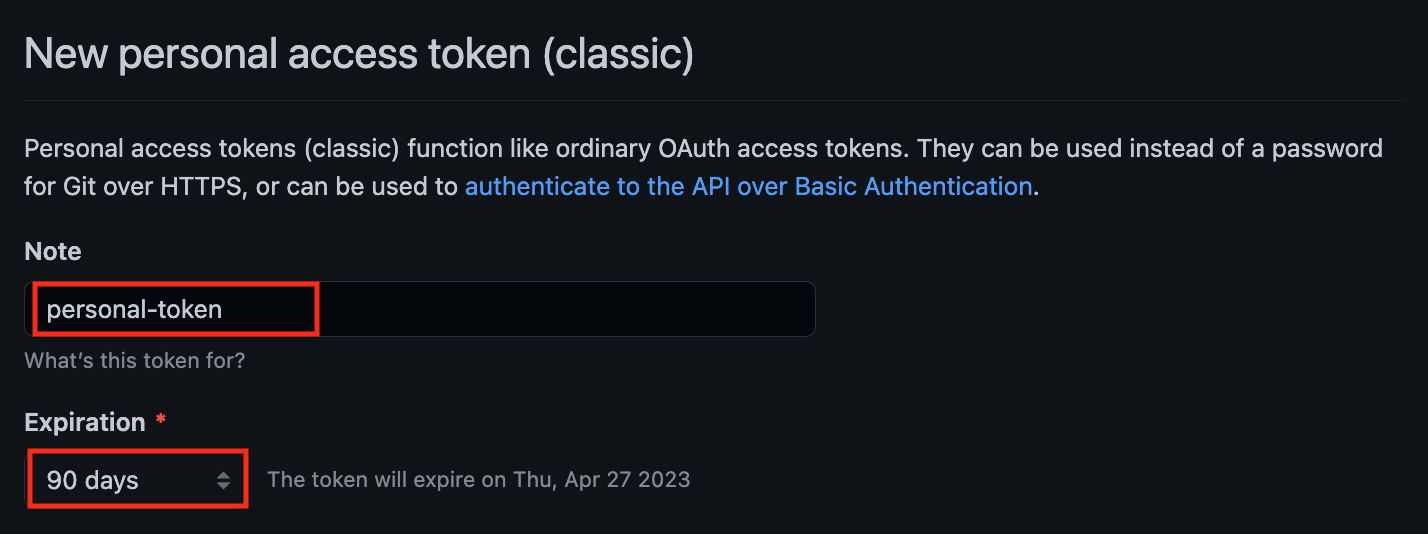
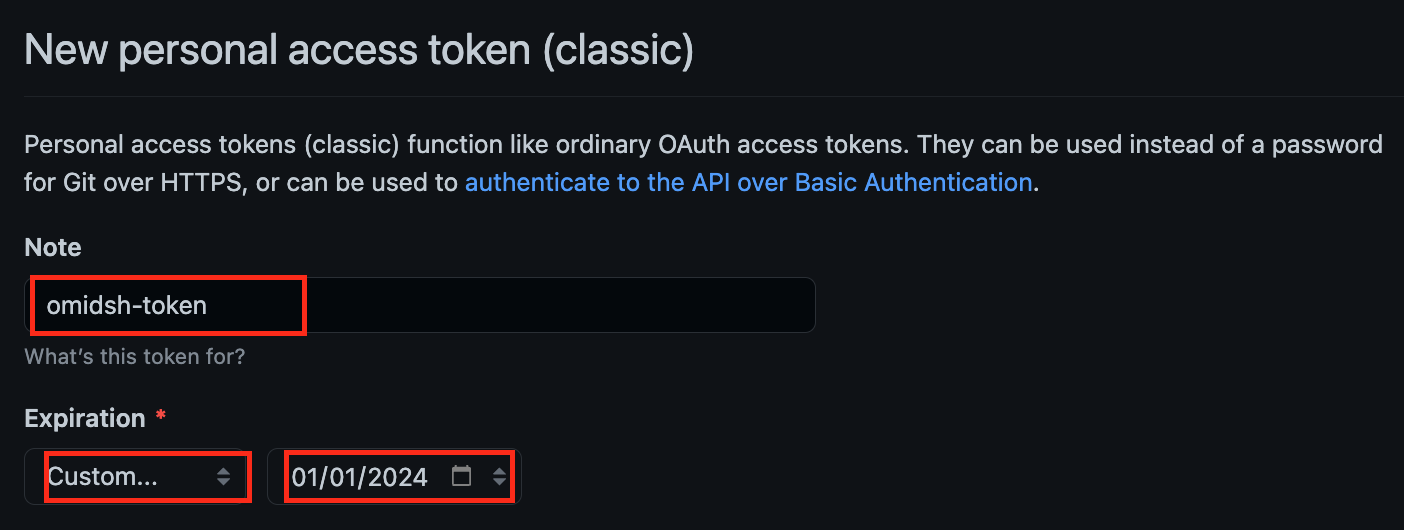
Write rough draft for token tutorial

diff --git a/docs/setup_git.md b/docs/setup_git.md
@@ -221,15 +221,63 @@ You now have a project page for your remote repo.  In this example, japplefield'
 
 <img src="images/github005b.png" width="768px" />
 
-#### Connect local repo to remote repo
-{: .primer-spec-toc-ignore }
-Browse to your repository's project page from [https://github.com/](https://github.com//). Copy the URL for your repo ending with `.git` by clicking on the copy icon.
+#### Create a GitHub Personal Access Token
+Before you continue with using your repositories in GitHub, you want to create your authentication method for accessing remote repo. GitHub personal access token (PAT) is a secure, user-friendly way to connect to GitHub. It gives you unique credentials to verify your identity.
 
-<img src="images/github006.png" width="768px" />
+Click on your profile, and head over to Settings.
+
+<img src="images/github_settings.png" width="768px" />
+
+Scroll down and select Developer settings from the left-hand side menu bar.
+
+<img src="images/github_developer_settings.png" width="768px" />
+
+Click on the drop down arrow to reveal the options. Select Tokens (classic). 
+
+<img src="images/github_tokens.png" width="768px" />
+
+Click on Generate new token and from the drop down menu, click on Generate new token (classic).
+
+<img src="images/github_generate_token.png" width="768px" />
+
+Now you should be able to view a page similar to the one below titled New personal access token (classic). If you do not see this page, go back to the previous page and make sure to select Generate new token (classic).
+
+Write a meaningful name for your token (such as &lt;uniqname&gt;-token). From the Expiration drop down menu select Custom. Set the expiration date to January 1st of next year (in `mm/dd/yy` format).
+
+<img src="images/github_token_view.png" width="768px" />
 
 <div class="primer-spec-callout info icon-info" markdown="1">
-**Pro-tip:** If you want avoid typing a username and password all the time, you can use SSH keys and an SSH URL (instead of HTTPS).  Check out the [GitHub tutorial on SSH keys](https://help.github.com/articles/connecting-to-github-with-ssh/).  Don't forget to [add your key to GitHub](https://github.com/settings/keys).
+**Note**: You have to renew your token after January 1st of next year by repeating this process. Setting your token expiration date to no expiration is a security risk. After expiration, to access remote repos previously accessed using your expired access token, you have to use the HTTPS link for the repo and [update the remote repo url](https://docs.github.com/en/enterprise-server@3.4/get-started/getting-started-with-git/managing-remote-repositories#changing-a-remote-repositorys-url). 
 </div>
+
+From the list below, select the boxes for `repo`, `admin:repo_hook`, and `delete_repo`.
+
+<img src="images/github_scopes.png" width="768px" />
+
+Now generate your token.
+
+<img src="images/github_gen_token.png" width="768px" />
+
+Copy your token. **Make sure to copy it now. You won’t be able to see it again!**
+
+<img src="images/github_copy_token.png" width="768px" />
+
+For now, store your token on your computer in a text file. Do not share this token with anyone!
+
+Open your terminal and enter the following command. Now, you only have to enter your access token the first time you are prompted for your password. From then on, GitHub won't prompt you to enter a password again.
+
+```console
+$ git config --global credential.helper store
+```
+
+<div class="primer-spec-callout info icon-info" markdown="1">
+**Alternative method:** If you want avoid re-generating tokens every 90 days, you can use SSH keys and an SSH URL (instead of HTTPS).  Check out the [GitHub tutorial on SSH keys](https://help.github.com/articles/connecting-to-github-with-ssh/). Don't forget to [add your key to GitHub](https://github.com/settings/keys) and [switch the remote from SSH to HTTPS.](https://docs.github.com/en/enterprise-server@3.4/get-started/getting-started-with-git/managing-remote-repositories#switching-remote-urls-from-ssh-to-https).
+</div>
+
+#### Connect local repo to remote repo
+Browse to your repository's project page from [https://github.com/](https://github.com//). Copy the URL for your repo from the `HTTPS` tab by clicking on the copy icon. The link starts with `https://` .
+
+<img src="images/github006.png" width="768px" />
 
 Connect your local repo to your remote repo.
 ```console
@@ -245,7 +293,8 @@ origin	https://github.com/japplefield/p1-insta485-static.git (fetch)
 origin	https://github.com/japplefield/p1-insta485-static.git (push)
 ```
 
-Push commits already committed on the local repo to the remote repo.
+Push commits already committed on the local repo to the remote repo. You will be prompted to enter a password, 
+this will be your personal access token.
 ```console
 $ git push -u origin main
 Username for 'https://github.com': japplefield
@@ -259,6 +308,10 @@ To https://github.com/japplefield/p1-insta485-static.git
  * [new branch]      main -> main
 Branch 'main' set up to track remote branch 'main' from 'origin'.
 ```
+
+<div class="primer-spec-callout warning" markdown="1">
+**MacOS Pitfall:** If you are not prompted for your username and password, your credentials may be cached on your computer. [Clear your credentials from Keychain Access](https://docs.github.com/en/enterprise-server@3.4/get-started/getting-started-with-git/updating-credentials-from-the-macos-keychain#updating-your-credentials-via-keychain-access).
+</div>
 
 <div class="primer-spec-callout warning" markdown="1">
 **Pitfall:** Your local `git` may use `master` as the name for the initial branch, whereas GitHub expects it to be named main.
